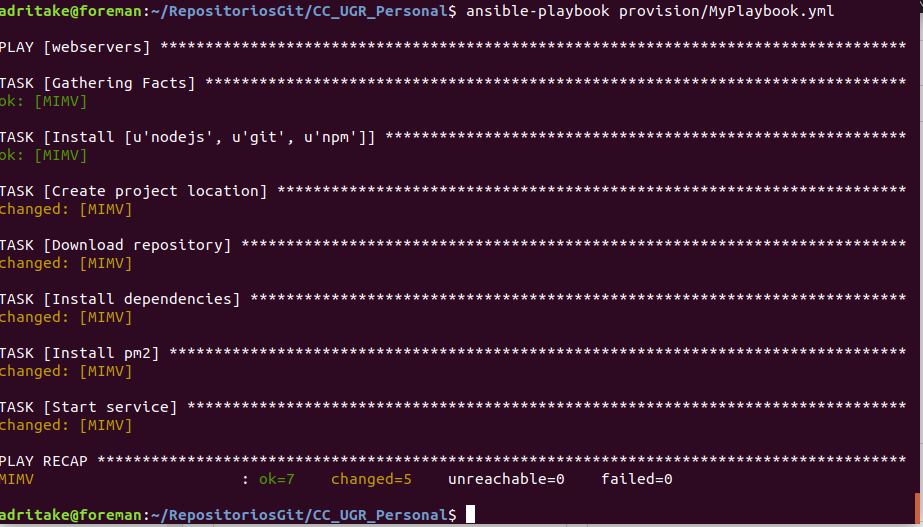
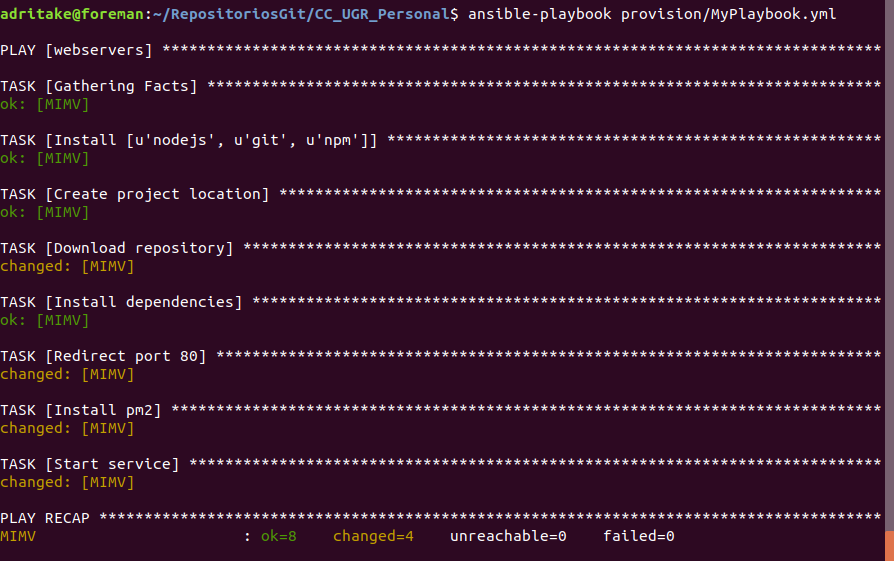
Actualizo imagen playbook #28

Changed region(s): [[0.0, 0.0, 1.0, 1.0]]

diff --git a/docs/Provision.md b/docs/Provision.md
@@ -30,7 +30,7 @@ Para provisionar la MV se ha usado Ansible, para ello hay que incluir la IP de l
 - Abrir con privilegios de súper usuario el archivo */etc/ansible/hosts* e introducir la siguiente línea:
 ```
 [webservers]
-MIMV ansible_host=23.99.224.134
+MIMV ansible_host=168.61.179.44
 ```
 - Probar que Ansible tiene acceso a la MV ejecutando `ansible all -m ping -u adritake`. En mi caso obtuve el siguiente resultado:
 ![Ping ansible](img/PingAnsible.png)
@@ -81,6 +81,7 @@ MIMV ansible_host=23.99.224.134
       command: pm2 start {{ project_location }}/IssueService.js
 
 ```
+- Lo que hace el playbook es instalar git, nodejs y npm, crea un directorio y descarga mi repositorio de GitHub. Instala las dependencias del repositorio con npm. Para redirigir el tráfico del puerto 80 al 5000 que es el que usa la aplicación se ha usado el comando `iptables` tal y como se indica en esta [página](https://clouding.io/kb/redireccionar-el-puerto-587-al-25/). Se instala pm2 para correr el servicio en segundo plano y que no se cierre al terminar la conexión. Por último se lanza el servicio con pm2.
 
 - Al ejecutar `ansible-playbook provision/MyPlaybook.yml` se hacen todas las tareas y se debería obtener un resultado como este:
 
